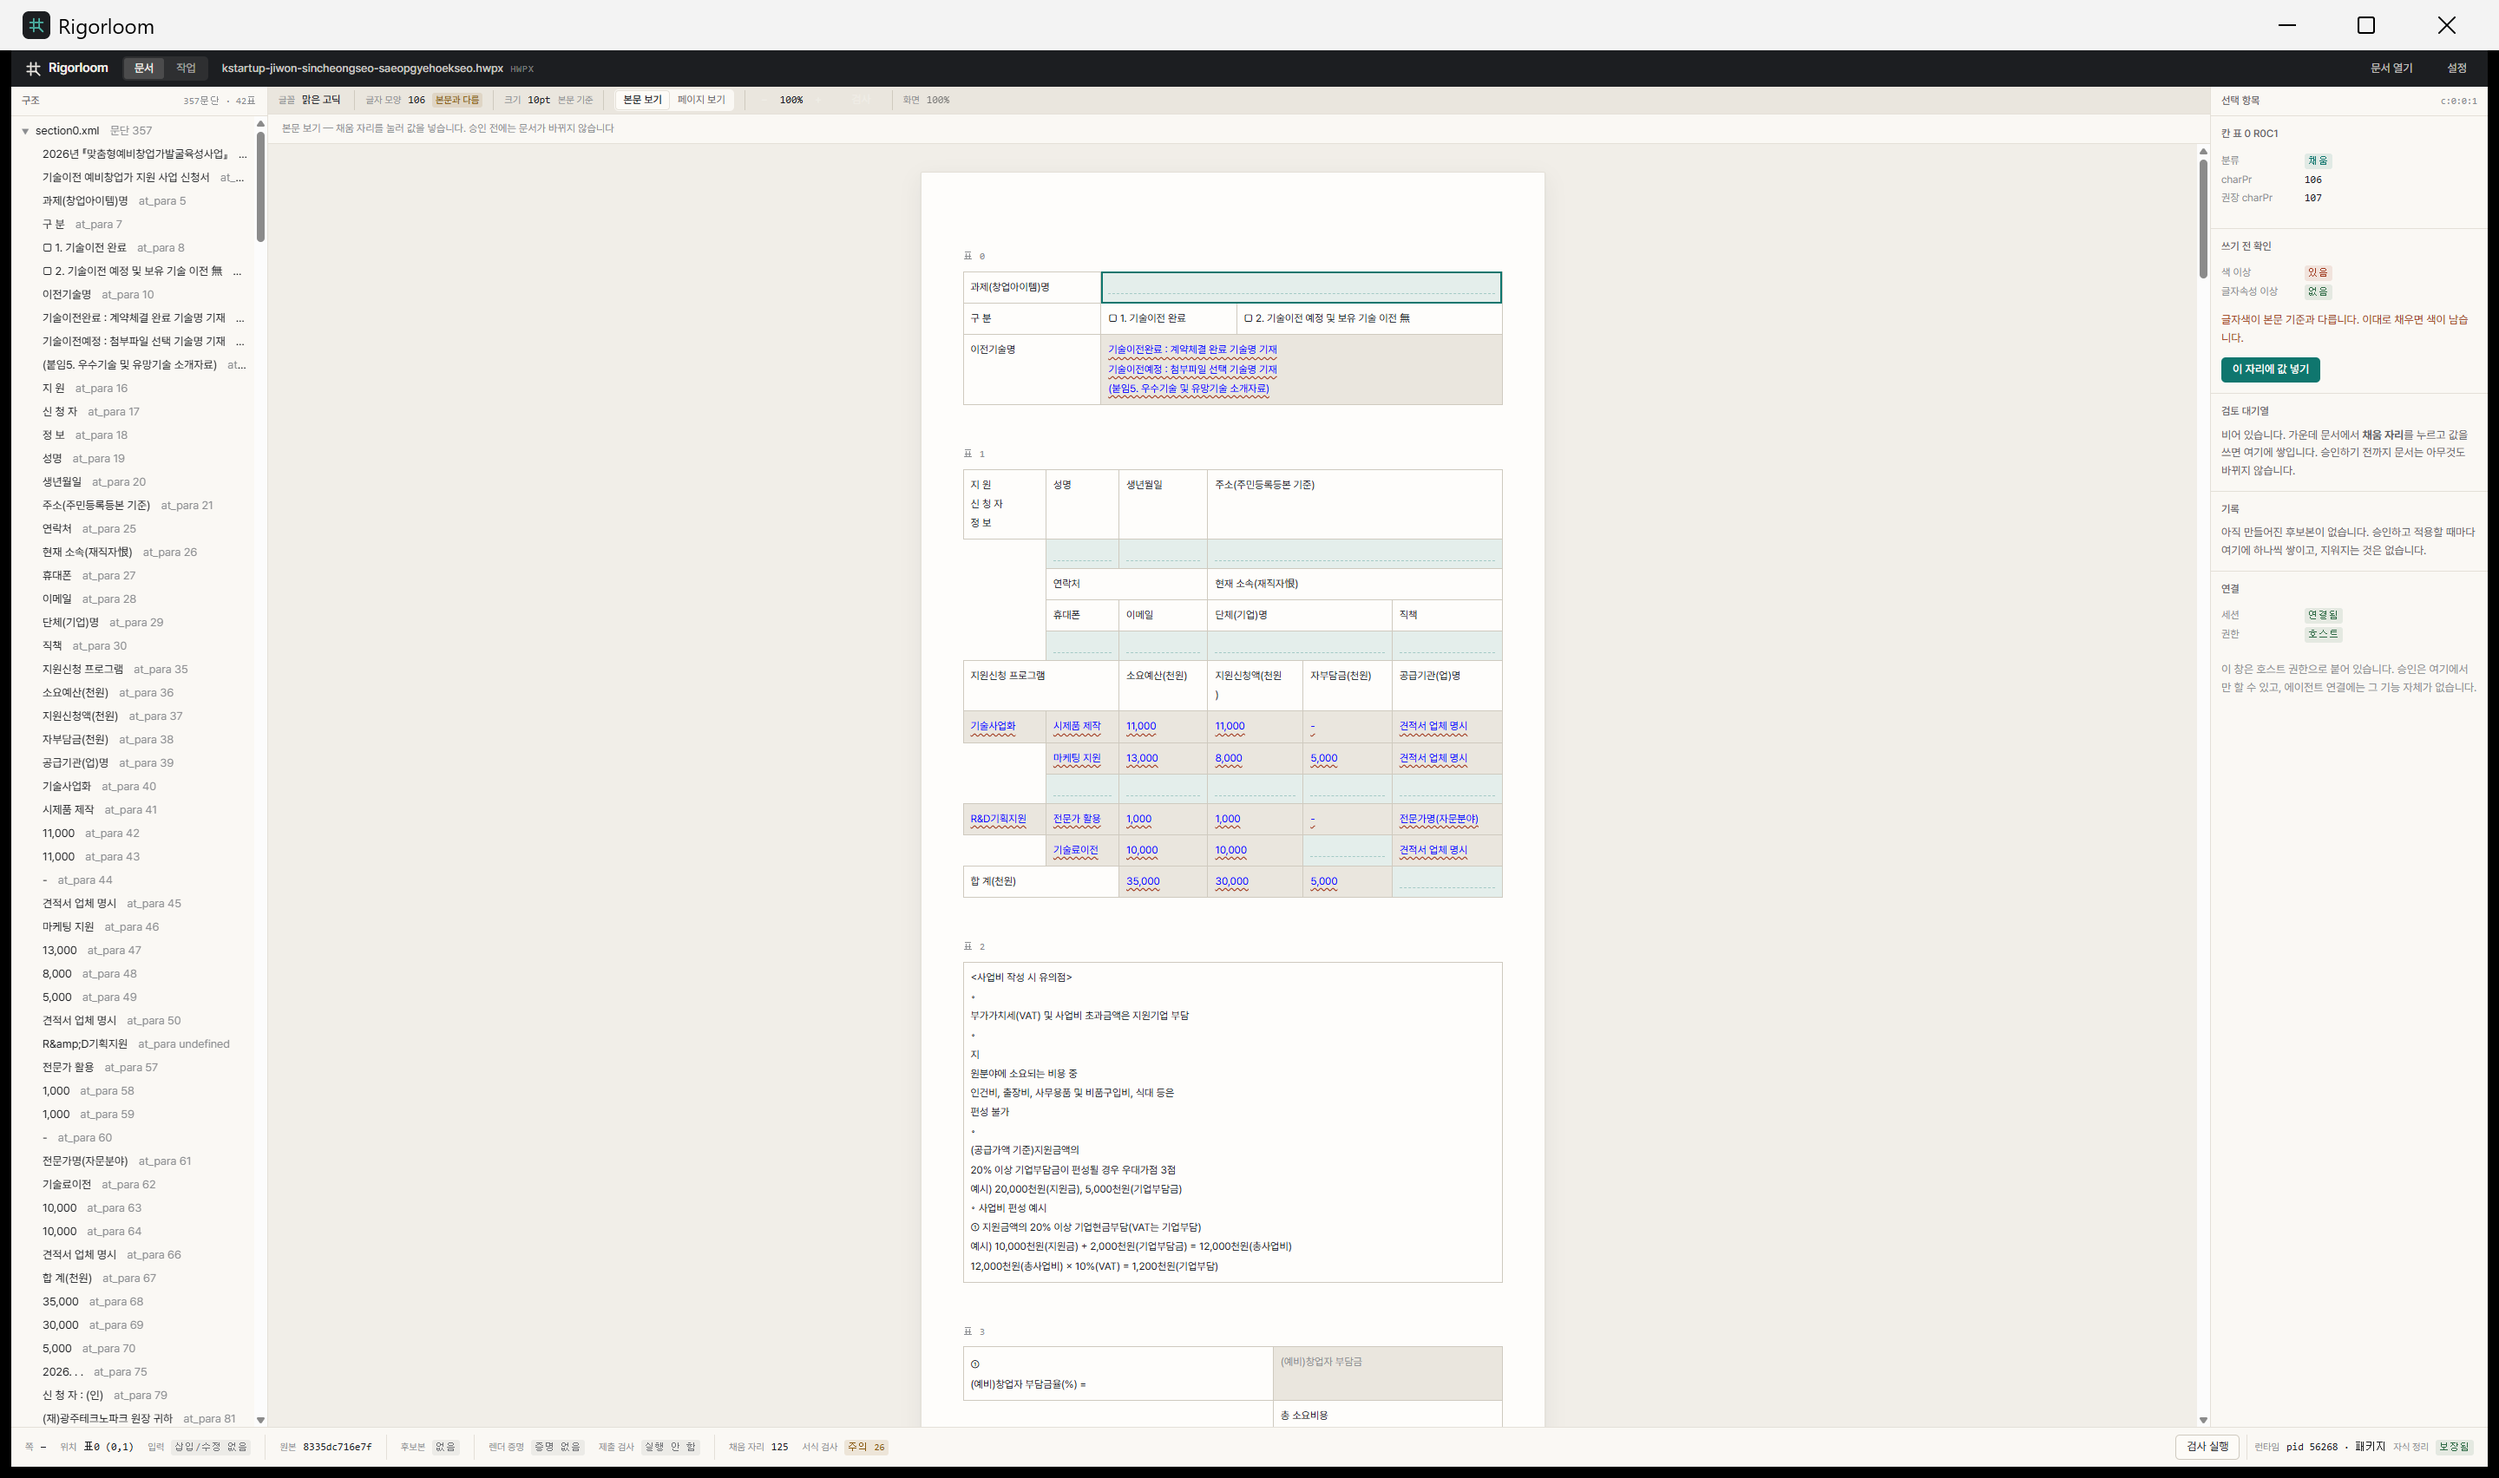
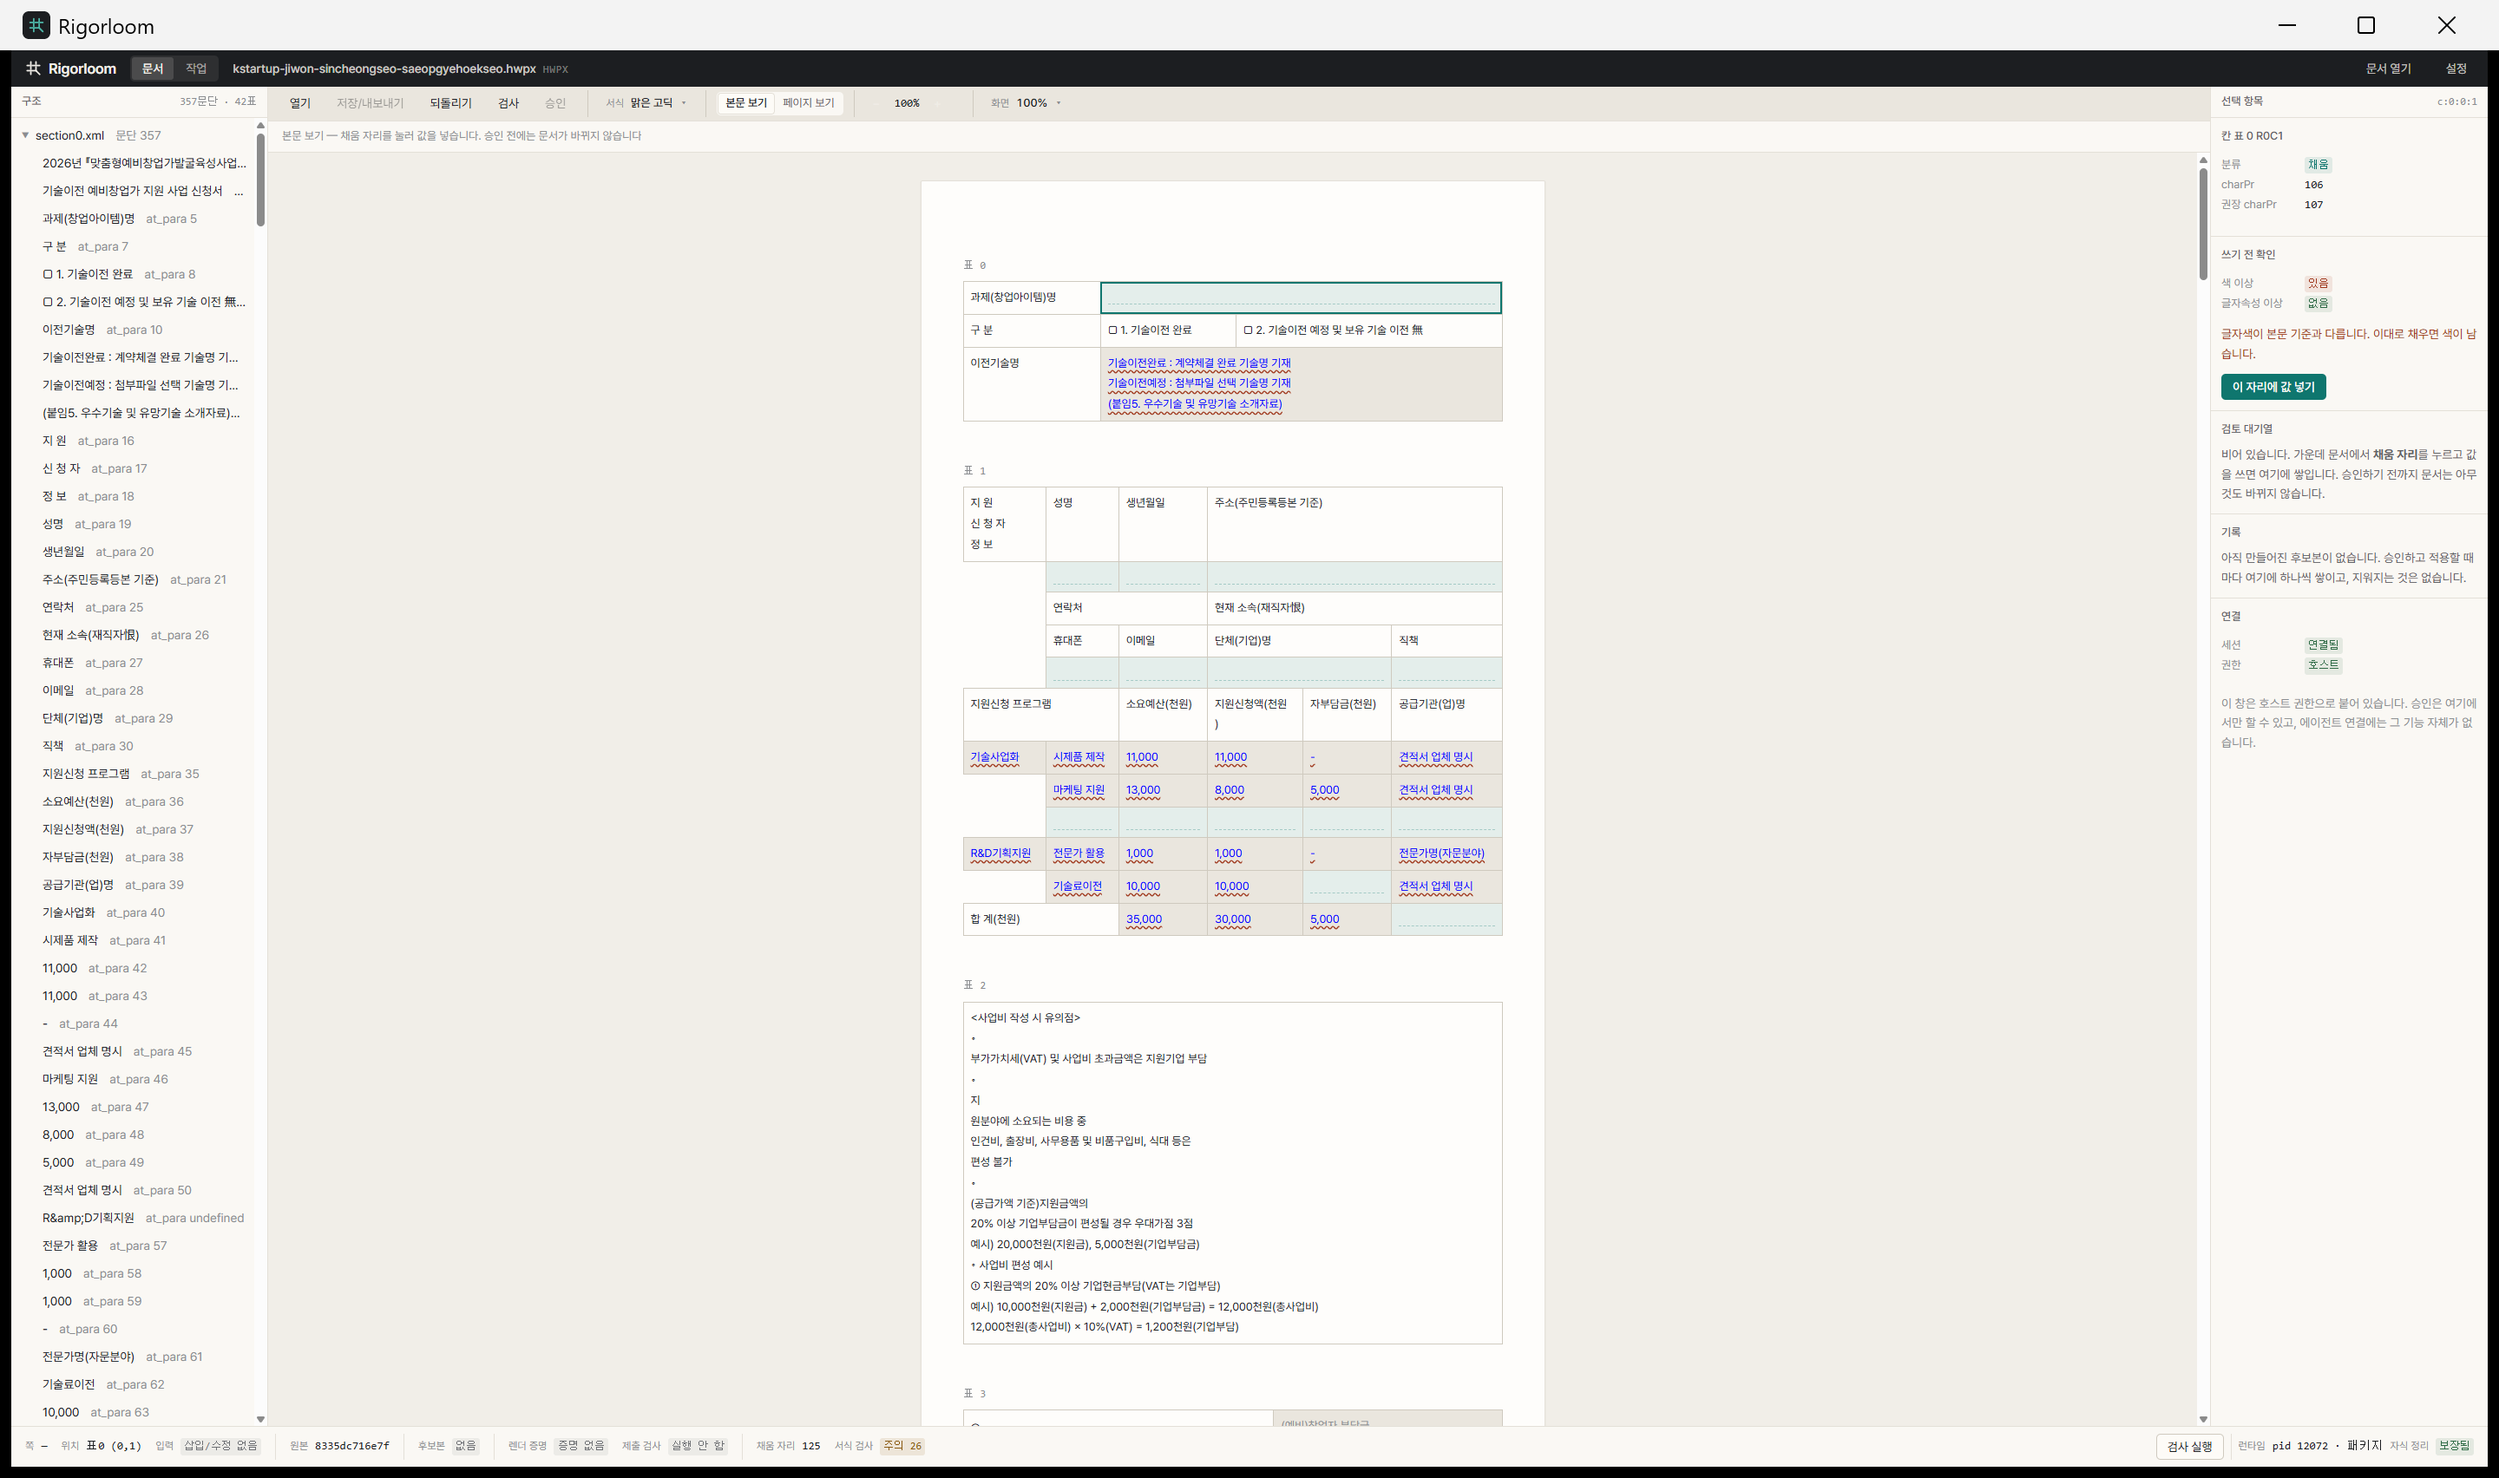
docs(desktop): the tier-3 evidence, and the three defects it found
499/0 across 14 phases against the release build with nothing substituted, and
three screenshots of the page a fresh install actually gets.

The defects are the part worth reading. All three were invisible to every check
that existed before this slice, and two of them would have shipped a tier that
is present, advertised, and dead:

  * --hidden-import PIL collects the package and what the analysis can reach
    from it, which was PIL.Image and not ImageDraw. import PIL worked; the
    renderer answered "Pillow is not installed". This is why the new role check
    renders a real corpus page rather than asking for --version.
  * render_capability built the tier-3 row without the engine root it was
    given, so a frozen build would have advertised own.state "no" while
    carrying the renderer. No test that only runs from a checkout can see that;
    the regression test points a core at an empty root instead.
  * The overlay's unmapped-draws-nothing rule was written when an unmapped line
    was a rare miss on a PDF page. On an own-rendered page every line is
    unmapped by construction, so it deleted all 30 line boxes.

Also recorded, because a screenshot caption that overstates its shot is the
same class of problem this harness exists to prevent: the toolbar capture asks
서식 to open and it does not survive to the captured frame, so the caption now
says the band is closed. And no tier-1 page has ever been photographed on this
[…]

diff --git a/desktop/src/smoke.ts b/desktop/src/smoke.ts
@@ -2564,6 +2564,14 @@ async function phaseShot(config: SmokeConfig, stop: string) {
   // disclosure photographs as a caption; `own-zoom` is the same page at 150%,
   // which is the claim that a zoom changes the drawn size and nothing else.
   if (stop === "own" || stop === "own-zoom") {
+    // OPEN THE CORPUS EXPLICITLY. Every other stop is happy to photograph
+    // whatever session the last launch left in prefs; this one must not. The
+    // first capture reattached to the session the overlay shots had staged a
+    // Hancom PDF into and photographed tier 2 under a caption promising tier 3
+    // — a screenshot of the wrong renderer, which is the one thing this shot
+    // exists to prevent.
+    if (config.corpus) await openPath(config.corpus);
+    await settled(250);
     setCenterMode("page");
     await renderCurrentPage(1);
     for (let i = 0; i < 120 && getState().renderPhase === "starting"; i += 1) {
@@ -2583,18 +2591,30 @@ async function phaseShot(config: SmokeConfig, stop: string) {
     return;
   }
 
-  // The band. One row of actions, with 서식 open so the shot shows both halves
-  // of the arrangement — what is always a button, and what is looked up.
+  // The band. One row of actions, and the menus that hold everything a person
+  // looks up rather than watches.
+  //
+  // It ASKS 서식 to open and, measured, it does not survive to the frame the
+  // capture lands on — `<details open>` set from script here does not stick.
+  // Left in and recorded rather than removed: the request is harmless and the
+  // shot's caption says the band is closed, which is also how a person first
+  // meets it.
   if (stop === "toolbar") {
     setCenterMode("text");
     if (clean.length > 0) {
       const seat = clean[0];
       setSelection({ kind: "cell", table: seat.table, row: seat.row, col: seat.col });
     }
-    await settled(250);
-    const menu = document.querySelector<HTMLDetailsElement>('[data-testid="tool-format"]');
-    if (menu) menu.open = true;
-    await settled(300);
+    await settled(400);
+    // Twice, with a commit between: the first attempt landed before the
+    // toolbar had re-rendered for the selection above and was thrown away, and
+    // the capture then photographed a closed menu under a caption promising an
+    // open one.
+    for (let i = 0; i < 2; i += 1) {
+      const menu = document.querySelector<HTMLDetailsElement>('[data-testid="tool-format"]');
+      if (menu) menu.open = true;
+      await settled(250);
+    }
     await ready(`shot-${stop}`);
     return;
   }

diff --git a/desktop/README.md b/desktop/README.md
@@ -1163,6 +1163,64 @@ document tool that glows looks like a marketing page.
 
 ## Evidence
 
+### 자체 렌더 — the tier-3 slice
+
+| Step | Result |
+| --- | --- |
+| `tsc --noEmit` | 0 |
+| sidecar build (all role checks) | 0 |
+| `npm run tauri build` | 0 |
+| `smoke.ps1` | **499 passed, 0 failed** across 14 phases |
+| new phases | `own` 40 · `own-reattach` 3 |
+| runtime suites + `tests/test_agenthost_compile.py` | 457 passed |
+| `py_compile` sweep | 0 |
+| privacy gate (`git archive HEAD` → `privacy_scan.py`) | HARD=0, WARN=45 (all pre-existing test fixtures) |
+
+Screenshots: `page-own-render.png` (the badge, the open 무엇을 못 그렸나 list),
+`page-own-render-150pct.png`, `toolbar.png`.
+
+**Three defects the evidence found, all in the packaging and all invisible to
+the checks that existed before it.**
+
+1. **`--hidden-import PIL` does not collect Pillow's submodules.** The bundle
+   had `_internal/PIL` on disk and `import PIL` worked; `from PIL import
+   ImageDraw` raised, and the renderer answered *Pillow is not installed* — the
+   exact shape of a tier that is present, advertised and dead. Fixed with
+   `--collect-submodules PIL`. This is why the new role check renders a real
+   corpus page rather than asking for `--version`: a smoke test of the import
+   surface would have passed.
+2. **`render_capability` built the tier-3 row without the engine root it was
+   given.** It fell back to a path derived from `rt_engine.__file__`, which is
+   correct in a checkout and outside the bundle in a frozen build, so a shipped
+   install would have advertised `own.state: "no"` while carrying the renderer.
+   Threaded from `RuntimeCore`; the regression test points a core at an empty
+   root and requires it to say so, because no test that only runs from a
+   checkout can see this.
+3. **The `unmapped → draw nothing` overlay rule erased the whole overlay.** It
+   was written when an unmapped line was a rare miss on a PDF page; on an
+   own-rendered page every line is unmapped by construction, so the rule
+   deleted all 30 line boxes and left a page that looked like one nothing had
+   been measured on. Own-rendered lines are now drawn silently — no fill, no
+   seat vocabulary, a hit target that states its own limit.
+
+Two build-script fixes came out of the same run: the own-render probe goes
+through `Start-Process`, because `$ErrorActionPreference = 'Stop'` turns the
+renderer's ElementTree `DeprecationWarning` into a terminating error and failed
+a build where the page had in fact been drawn; and the serve-role reap now
+kills the one-dir bootloader's CHILD as well as the bootloader — the orphan the
+existing comment in that file warned about, still holding build trees open
+twenty minutes at a time.
+
+**What this evidence does not cover.** The `toolbar.png` capture asks the 서식
+menu to open and it does not survive to the captured frame, so the shot shows
+the band closed. No tier-1 page was produced on this machine: `renderPrepare`
+answers `needs_hancom` (the packaged sidecar carries no `pyhwpx`), so the
+`hancom` grade is exercised only by the prepare suite with a substituted
+converter, never live. The staged overlay session grades `pdf` rather than
+`hancom` — correct, because a PDF a script staged is not one this machine's
+Hancom produced — which means the 한컴 렌더 badge text has never been
+photographed.
+
 ### Phase 3 (commit `2f27d3e`), reproduced from a clean build
 
 | Step | Exit | Seconds |
